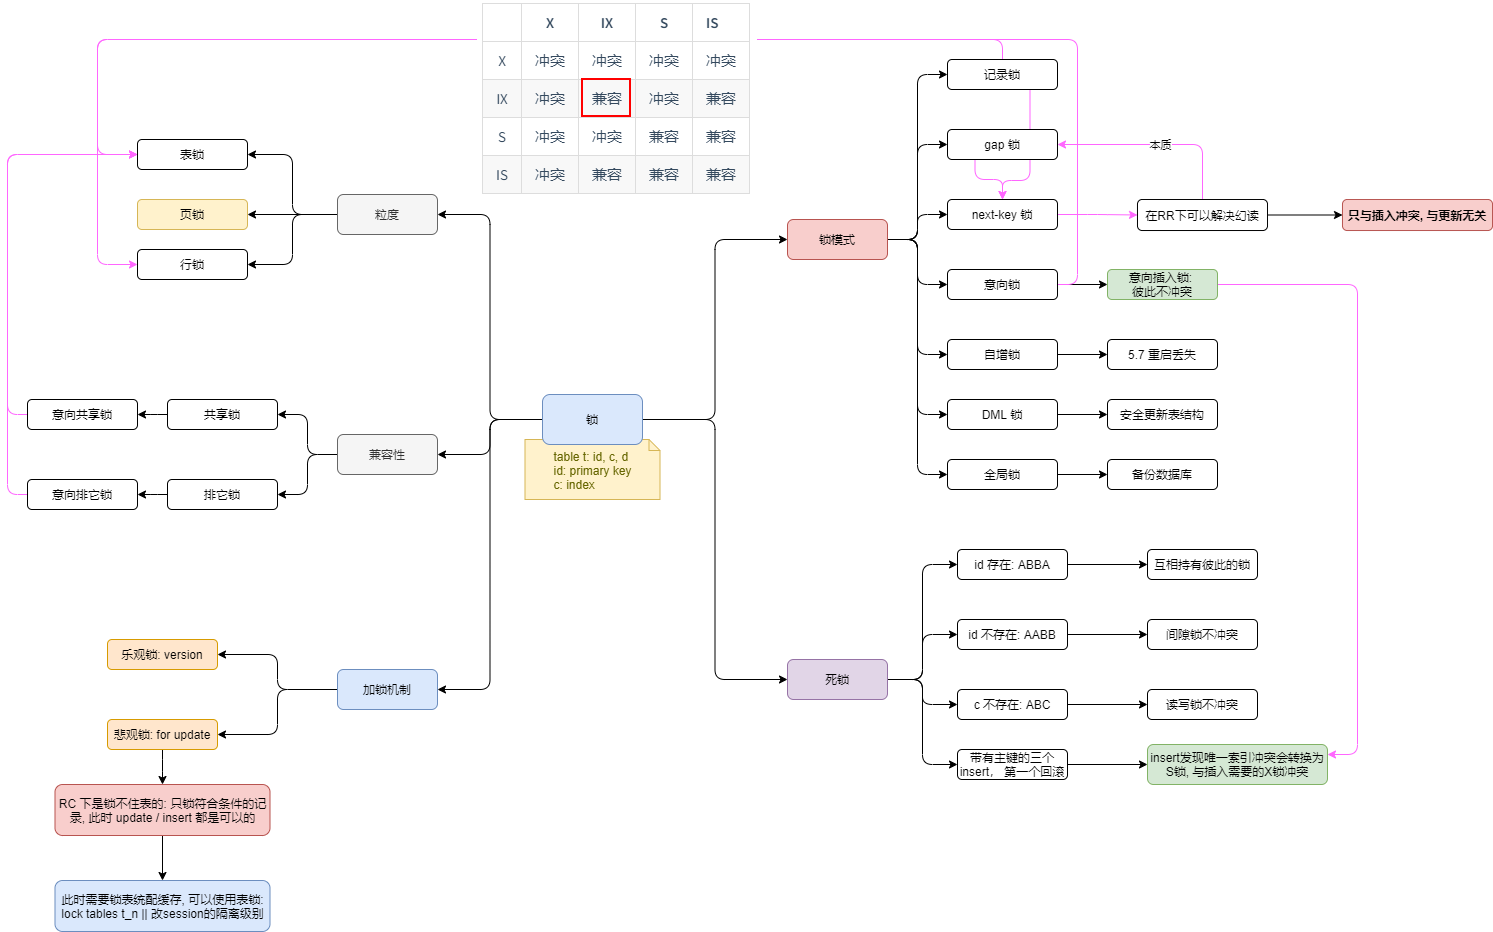
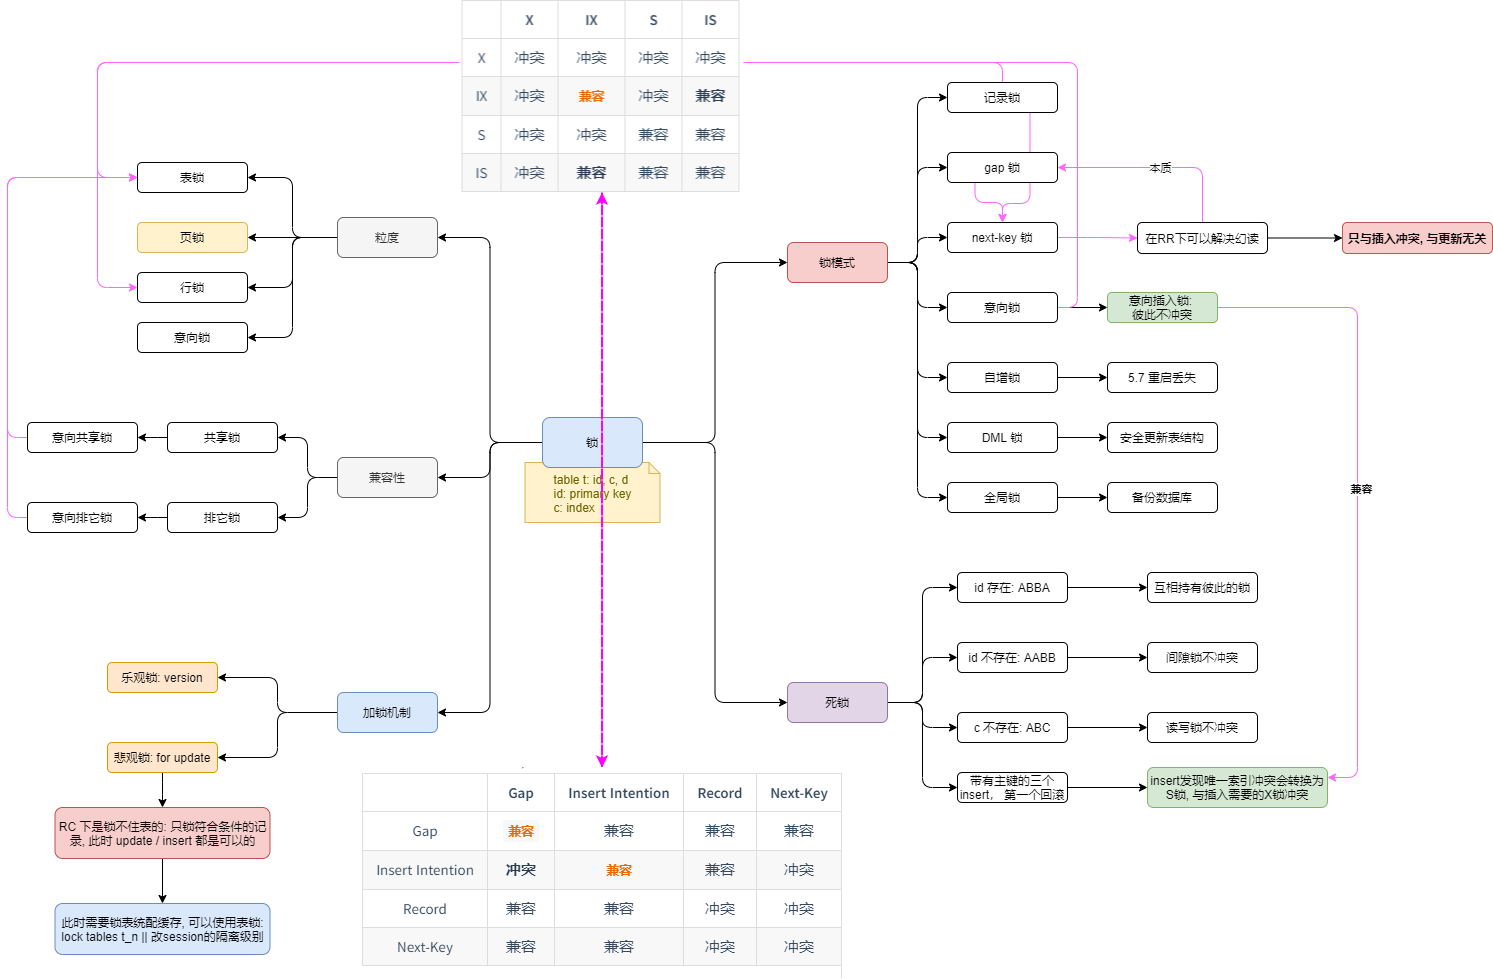
db/mysql: refine dead lock exp

diff --git a/db/language/mysql/v2/07.lock.md b/db/language/mysql/v2/07.lock.md
@@ -7,7 +7,7 @@
 
    - 表锁: ~~意向共享锁/意向排他锁~~
    - 行锁[record lock ]: 加锁慢资源多并发高粒度小`死锁` + 读锁写锁; **对索引项加锁**, 锁定符合条件的行
-   - 间隙锁[Gap lock], 锁定的是记录与记录之间的空隙{不包括记录本身},间隙锁只阻塞插入操作{**不管更新**}, 解决幻读问题
+   - 间隙锁[Gap lock], 锁定的是记录与记录之间的空隙{不包括记录本身},**间隙锁只阻塞插入操作**{**不管更新**}, 解决幻读问题
    - 临键锁[Next-key lock]: 只在可重复读下才有, 是行锁与间隙锁的并集, 是 mysql-可重复读下加锁的基本单位
    - 自增锁: id 自增时插入失败也会+1
    - 死锁: `innodb_deadlock_detect=on`, 大事务 + 复杂事务
@@ -23,12 +23,24 @@
      - 意向共享锁[IS]: 事务准备给数据行记入共享锁[S], 则事务在一个数据行加共享锁前必须先取得该表的 IS 锁
      - 意向排他锁[IX]: 事务准备给数据行加入排他锁[X], 则事务在一个数据行加排他锁前必须先取得该表的 IX 锁 + 多个 IX 共存的例子{对同一个表中的多个行分别加行写锁(X 锁), 对该表的每一行加 X 锁之前都会申请该表的 IX}
 
-     |     |  X   |  IX  |  S   | IS   |
-     | :-: | :--: | :--: | :--: | ---- |
-     |  X  | 冲突 | 冲突 | 冲突 | 冲突 |
-     | IX  | 冲突 | 兼容 | 冲突 | 兼容 |
-     |  S  | 冲突 | 冲突 | 兼容 | 兼容 |
-     | IS  | 冲突 | 兼容 | 兼容 | 兼容 |
+     |     |  X   |     IX     |  S   |    IS    |
+     | :-: | :--: | :--------: | :--: | :------: |
+     |  X  | 冲突 |    冲突    | 冲突 |   冲突   |
+     | IX  | 冲突 | **`兼容`** | 冲突 | **兼容** |
+     |  S  | 冲突 |    冲突    | 兼容 |   兼容   |
+     | IS  | 冲突 |  **兼容**  | 兼容 |   兼容   |
+
+   - 插入意向锁: 在插入一行记录操作之前设置的一种**间隙锁**, 这个锁释放了一种插入方式的信号, 即**多个事务在相同的索引间隙插入时如果不是插入间隙中相同的位置就不需要互相等待**
+
+     1. 假设某列有索引值[2, 6], 只要两个事务插入位置不同(如事务 A 插入 3{**插入意向锁+3 的写排它锁**}, 事务 B 插入 4) 那么就可以同时插入
+     2. 由唯一性引起的失败, 则会获取**插入意向锁+读共享锁**: 可能引起死锁
+
+     |                  |    Gap     | Insert Intention | Record | Next-Key |
+     | :--------------: | :--------: | :--------------: | :----: | :------: |
+     |       Gap        | **`兼容`** |       兼容       |  兼容  |   兼容   |
+     | Insert Intention |  **冲突**  |    **`兼容`**    |  兼容  |   冲突   |
+     |      Record      |    兼容    |       兼容       |  冲突  |   冲突   |
+     |     Next-Key     |    兼容    |       兼容       |  冲突  |   冲突   |
 
 4. 行锁 vs 表锁: **彼此之间存在锁冲突**
 
@@ -200,13 +212,13 @@
    - 可重复读
 
      ```sql
-     -- session01
+     -- session01: lock idx_a's (-~, 10] 和存在的记录
      update test_innodb_lock set b='40001' where a > 1 and a< 6;  -- ok
 
      --session02:
-     insert into test_innodb_lock values(99, 2, '20000');  -- blocked
-     update test_innodb_lock set b='2000' where a=2;  -- a=2 record noexist, so ok
-     update test_innodb_lock set b='2000' where a=4;  -- blocked  这个不合理啊
+     insert into test_innodb_lock values(99, 2, '20000');   -- blocked
+     update test_innodb_lock set b='2000' where a=2;        -- no block: 锁的是存在的记录 1,4,10 + 间隙锁的插入
+     update test_innodb_lock set b='2000' where a=4;        -- blocked
      ```
 
    - 读已提交: **锁定某一行时{行锁}, 是与可重复读一致的**
@@ -214,14 +226,15 @@
      ```sql
      -- reset pre-env
 
-     -- session01: 读已提交本质锁了 idx_a 中存在的4, 且不与insert 的all(type)关联, 因此 update a=4 会被block
+     -- session01: lock idx_a's {1, 4}
      update test_innodb_lock set b='40001' where a > 1 and a< 6;  -- ok
 
      --session02:
-     insert into test_innodb_lock values(99, 2, '20000');  -- no blocked
-     insert into test_innodb_lock values(99, 4, '20000');  -- no blocked， 不同failed
-     update test_innodb_lock set b='2000' where a=2;  -- a=2 record noexist, so ok
-     update test_innodb_lock set b='2000' where a=4;  -- exist, blocked
+     insert into test_innodb_lock values(99, 2, '20000');   -- no blocked
+     insert into test_innodb_lock values(99, 4, '20000');   -- no blocked, 但是failed
+     update test_innodb_lock set b='2000' where a=2;        --  no block: 锁的是存在的记录 1,4,10
+     update test_innodb_lock set b='2000' where a=4;        -- blocked
+     update test_innodb_lock set b='2000' where a=10;        -- no blocked
      ```
 
 ### Next-key lock:
@@ -238,6 +251,11 @@
      1. **等值 & 范围都是需要找到下一个不满足的**
      2. **等值查询会退化为间隙锁**: 唯一索引等值**存在**下会变为行锁
      3. 范围查询: 唯一索引会退化为间隙锁, 非唯一索引不会
+   - addional2:
+     1. 锁唯一索引: 存在则退化为行锁, 不存在退化为间隙锁
+     2. 锁非唯一索引: 退化为间隙锁
+     3. 锁无索引: 锁全部记录
+     4. 范围都是需要找到下一个不满足的: 唯一索引会退化为间隙锁, 非唯一索引不会
 
 3. 案例解析
 
@@ -287,10 +305,26 @@
      ![avatar](/static/image/db/mysql-deadlock.png)
    - 可以重现
      ![avatar](/static/image/db/mysql-deadlock-2.png)
-   - 能重现死锁:
+   - 能重现死锁: 插入死锁-- **这个试验在 8.0 下都做不出来{id 一样就直接阻塞了}**
      ![avatar](/static/image/db/mysql-dead-lock-v4.png)
+     ![avatar](/static/image/db/mysql-lock-unique-deadlock.png)
+   - 非死锁
 
-2. CPU 消耗接近 100%, 整个数据库每秒就执行不到 100 个事务, 是由 死锁和死锁检测 导致的
+     | 步骤 |                        事务 A                        |                            事务 B                             |
+     | :--: | :--------------------------------------------------: | :-----------------------------------------------------------: |
+     |  0   |                        begin;                        |                            begin;                             |
+     |  1   | `delete from t where c=5` lock idx_c'[5]+(0, 10) gap |                               -                               |
+     |  2   |                          -                           |   delete from t where c=5 blocked, 因为 5 的行锁他获取不了    |
+     |  3   |                          -                           | delete from t where c=4 或 10; no blocked, 间隙锁不管更新删除 |
+
+2. 出现死锁的条件
+
+   - 两个或者两个以上事务
+   - 每个事务都已经持有锁并且申请新的锁
+   - 锁资源同时只能被同一个事务持有或者不兼容
+   - 事务之间因为持有锁和申请锁导致彼此循环等待
+
+3. CPU 消耗接近 100%, 整个数据库每秒就执行不到 100 个事务, 是由 死锁和死锁检测 导致的
 
    - 直接进入等待, 直到超时: 参数 **innodb_lock_wait_timeout** 来设置 50s
    - 发起死锁检测, 发现死锁后, 主动回滚死锁链条中的某一个事务, 让其他事务得以继续执行: 参数 **innodb_deadlock_detect** 设置为 on
@@ -299,13 +333,19 @@
    - 死锁 CPU 消耗: 控制并发度[服务端{**相同行的更新在进入引擎之前排队**}]
    - 死锁 CPU 消耗: 将一行改成逻辑上的多行来减少锁冲突
 
-3. 避免死锁:
+4. 避免死锁:
 
-   - 通过表级锁来减少死锁产生的概率；
-   - 多个程序尽量约定以相同的顺序访问表 (这也是解决并发理论中哲学家就餐问题的一种思路）；
-   - 同一个事务尽可能做到一次锁定所需要的所有资源。
-   - 业务上的合并减少并事务
-   - ~~ 进行顺序操作(redis), 从而减少并发事务~~
+   - 合理的设计索引, 区分度高的列放到组合索引前面, 使业务 SQL 尽可能通过索引定位更少的行, 减少锁竞争
+   - 尽量按主键/索引去查找记录, 范围查找增加了锁冲突的可能性, 也不要利用数据库做一些额外额度计算工作: 比如有的程序会用到 `select … where … order by rand()`{用不到索引, 因此将导致整个表的数据都被锁住}
+   - 优化 SQL 和表设计, 减少同时占用太多资源的情况: 比如说减少连接的表, 将复杂 SQL 分解为多个简单的 SQL
+   - 在并发比较高的系统中, 不要显式加锁, 特别是是在事务里显式加锁: 如 `select … for update` 语句, 如果是在事务里运行了 start transaction 或设置了 autocommit 等于 0, 那么就会锁定所查找到的记录
+
+   - 以固定的顺序访问表和行: 比如两个更新数据的事务, 事务 A 更新数据的顺序为 `1,2`; 事务 B 更新数据的顺序为 `2, 1`(这样更可能会造成死锁)[这也是解决并发理论中哲学家就餐问题的一种思路]
+   - 同一个事务尽可能做到一次锁定所需要的所有资源
+   - 避免大事务: 尽量将大事务拆成多个小事务来处理, 小事务发生锁冲突的几率也更小 + 业务上减少并事务
+   - 调整业务逻辑 SQL 执行顺序, 避免 update/delete 长时间持有锁的 SQL 在事务前面
+
+   - _通过表级锁来减少死锁产生的概率_
 
 ### 页锁[less use]
 

diff --git a/db/language/mysql/v2/99.question.md b/db/language/mysql/v2/99.question.md
@@ -267,6 +267,9 @@ CREATE TABLE `geek` (
    - 这样看来其实唯一索引更好, 但是实际观察来看, 这种性能的差异微乎其微, 况且我们还可以在查询语句上用 limit 1 来限制: **数据是按照页读取的**
    - 在更新过程中, 普通索引的更新因为不用考虑唯一性, 会将这次更新操作直接写入 change buffer 中, 之后会定期或者再次访问到这个数据页的时候持久化到磁盘当中
    - 而唯一索引的更新不能用 change bufer, 原因是要在表中判断是否已经有该条记录, 所以会有一个将数据页读入内存的 IO 操作, 而 IO 操作又是很消耗资源的
+3. 产生死锁
+
+   ![avatar](/static/image/db/mysql-lock-unique-deadlock.png)
 
 ### 15.简单删除数据空间回收
 
